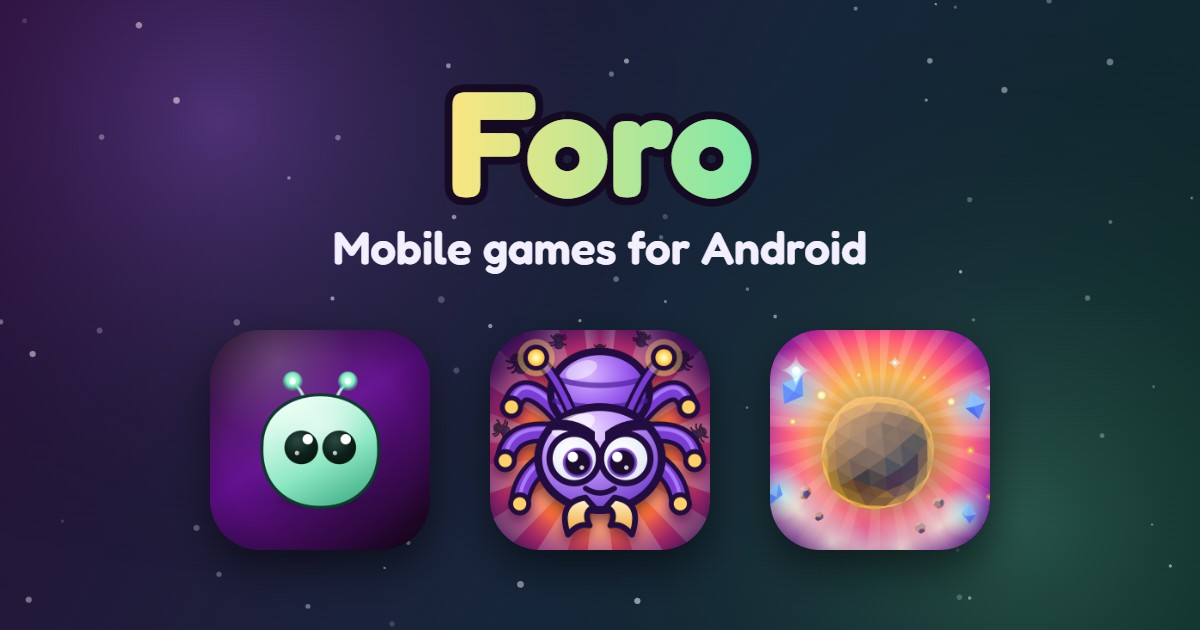
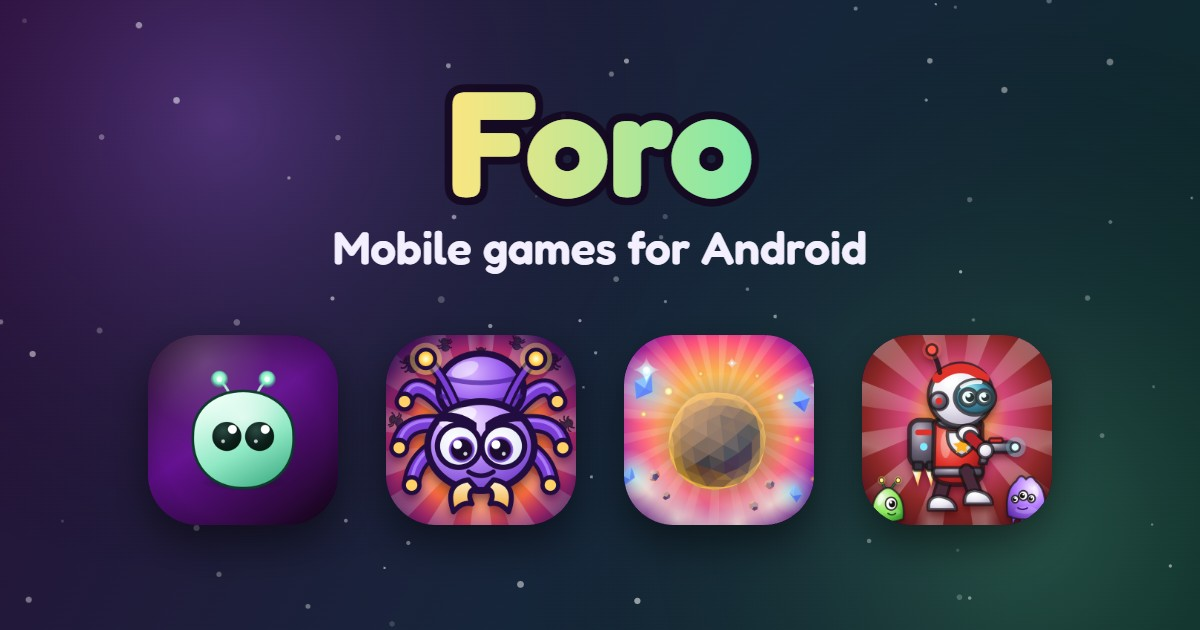
Add files via upload

Changed region(s): [[0.1233, 0.5127, 0.8942, 0.8746]]

diff --git a/index.html b/index.html
@@ -4,7 +4,7 @@
   <meta charset="utf-8">
   <meta name="viewport" content="width=device-width, initial-scale=1">
   <title>Foro - Mobile games for Android</title>
-  <meta name="description" content="Colourful free mobile games for Android: Tapvolution (idle evolution clicker), Bugvalanche (tower defense) and Tiltstone (tilt-to-roll arcade). Ads are always optional.">
+  <meta name="description" content="Colourful free mobile games for Android: Tapvolution (idle evolution clicker), Bugvalanche (tower defense) and Tiltstone (tilt-to-roll arcade) and Mobmelt (survivor action). Ads are always optional.">
   <link rel="canonical" href="https://foro1998.github.io/">
   <meta name="theme-color" content="#120a26">
   <link rel="icon" type="image/svg+xml" href="/favicon.svg">
@@ -12,7 +12,7 @@
   <meta property="og:type" content="website">
   <meta property="og:site_name" content="Foro">
   <meta property="og:title" content="Foro - Mobile games for Android">
-  <meta property="og:description" content="Tapvolution, Bugvalanche and Tiltstone: colourful free Android games. Ads are always optional.">
+  <meta property="og:description" content="Tapvolution, Bugvalanche, Tiltstone and Mobmelt: colourful free Android games. Ads are always optional.">
   <meta property="og:url" content="https://foro1998.github.io/">
   <meta property="og:image" content="https://foro1998.github.io/og-image.jpg">
   <meta property="og:image:width" content="1200">
@@ -83,13 +83,6 @@
     nav { display: flex; align-items: center; gap: 6px; }
     nav a.link { color: var(--text); text-decoration: none; padding: 8px 14px; border-radius: 999px; font-weight: 600; font-size: 0.95rem; }
     nav a.link:hover { background: rgba(255, 255, 255, 0.08); }
-    .lang { display: inline-flex; border: 1px solid var(--stroke); border-radius: 999px; padding: 3px; margin-left: 8px; background: rgba(255, 255, 255, 0.04); }
-    .lang button {
-      border: 0; background: transparent; color: var(--muted); font: 700 0.8rem var(--font-body);
-      padding: 6px 11px; border-radius: 999px; cursor: pointer; letter-spacing: 0.04em;
-    }
-    .lang button[aria-pressed="true"] { background: linear-gradient(135deg, var(--gold), var(--gold-dark)); color: #3a2204; }
-
     /* ---------- hero ---------- */
     .hero { padding: clamp(48px, 9vw, 104px) 0 clamp(28px, 5vw, 56px); text-align: center; }
     .hero h1 {
@@ -110,7 +103,8 @@
     }
     .hero__icons a:nth-child(1) img { transform: rotate(-6deg); }
     .hero__icons a:nth-child(2) img { transform: translateY(-8px); }
-    .hero__icons a:nth-child(3) img { transform: rotate(6deg); }
+    .hero__icons a:nth-child(3) img { transform: rotate(5deg); }
+    .hero__icons a:nth-child(4) img { transform: translateY(-8px) rotate(-4deg); }
     .hero__icons a:hover img { transform: translateY(-8px) scale(1.06); }
     .cta { display: flex; justify-content: center; flex-wrap: wrap; gap: 12px; margin-top: 30px; }
 
@@ -136,7 +130,8 @@
       margin: 0 0 8px; text-align: center; font: 700 clamp(1.8rem, 4.4vw, 2.6rem)/1.15 var(--font-display);
     }
     .section-sub { text-align: center; color: var(--muted); margin: 0 auto 36px; max-width: 36rem; }
-    .games { display: grid; grid-template-columns: repeat(auto-fit, minmax(300px, 1fr)); gap: 26px; align-items: stretch; }
+    .games { display: grid; grid-template-columns: repeat(auto-fit, minmax(420px, 1fr)); gap: 26px; align-items: stretch; }
+    @media (max-width: 480px) { .games { grid-template-columns: 1fr; } }
     .game {
       position: relative; display: flex; flex-direction: column; overflow: hidden;
       background: var(--card); border: 1px solid var(--stroke); border-radius: var(--radius);
@@ -209,12 +204,8 @@
         <span class="brand__name">Foro</span>
       </a>
       <nav aria-label="Main">
-        <a class="link" href="#games" data-i18n="navGames">Games</a>
-        <a class="link" href="#contact" data-i18n="navContact">Contact</a>
-        <div class="lang" role="group" aria-label="Language">
-          <button type="button" data-lang="en" aria-pressed="true">EN</button>
-          <button type="button" data-lang="cs" aria-pressed="false">CS</button>
-        </div>
+        <a class="link" href="#games">Games</a>
+        <a class="link" href="#contact">Contact</a>
       </nav>
     </div>
   </header>
@@ -222,24 +213,25 @@
   <main>
     <section class="hero">
       <div class="wrap">
-        <h1 data-i18n="heroTitle">Colourful games for your phone</h1>
-        <p data-i18n="heroText">Free Android games: idle clicking, tower defense and tilt-to-roll arcade. Ads are always optional, only when you choose to watch one for a reward.</p>
+        <h1>Colourful games for your phone</h1>
+        <p>Free Android games: idle clicking, tower defense, tilt-to-roll arcade and survivor action. Ads are always optional, only when you choose to watch one for a reward.</p>
         <div class="hero__icons" aria-hidden="true">
           <a tabindex="-1" href="#tapvolution"><img src="/tapvolution-icon.webp" alt="" width="92" height="92"></a>
           <a tabindex="-1" href="#bugvalanche"><img src="/bugvalanche-icon.webp" alt="" width="92" height="92"></a>
           <a tabindex="-1" href="#tiltstone"><img src="/tiltstone-icon.webp" alt="" width="92" height="92"></a>
+          <a tabindex="-1" href="#mobmelt"><img src="/mobmelt-icon.webp" alt="" width="92" height="92"></a>
         </div>
         <div class="cta">
-          <a class="btn btn--gold" href="#games" data-i18n="ctaGames">See the games</a>
-          <a class="btn btn--ghost" href="https://play.google.com/store/apps/details?id=com.tapvolution.game" data-i18n="ctaLatest">Play Tapvolution now</a>
+          <a class="btn btn--gold" href="#games">See the games</a>
+          <a class="btn btn--ghost" href="https://play.google.com/store/apps/details?id=com.tapvolution.game">Play Tapvolution now</a>
         </div>
       </div>
     </section>
 
     <section id="games">
       <div class="wrap">
-        <h2 class="section" data-i18n="gamesTitle">Games</h2>
-        <p class="section-sub" data-i18n="gamesSub">Three games, three very different ways to play.</p>
+        <h2 class="section">Games</h2>
+        <p class="section-sub">Four games, four very different ways to play.</p>
 
         <div class="games">
           <!--
@@ -256,23 +248,23 @@
             <div class="game__body">
               <div class="game__head">
                 <h3>Tapvolution</h3>
-                <span class="badge badge--live" data-i18n="badgeLive">Out now</span>
-                <span class="badge badge--soon" data-i18n="badgeSoon">Coming soon</span>
+                <span class="badge badge--live">Out now</span>
+                <span class="badge badge--soon">Coming soon</span>
               </div>
-              <ul class="tags"><li data-i18n="tagIdle">Idle clicker</li><li data-i18n="tagOffline">Plays offline</li><li data-i18n="tagTap">Evolution</li></ul>
-              <p class="desc" data-i18n="tapDesc">Tap a tiny cell and evolve it through 86 stages, all the way to a god. Buy generators that earn while you're away, then reset and grow stronger.</p>
+              <ul class="tags"><li>Idle clicker</li><li>Plays offline</li><li>Evolution</li></ul>
+              <p class="desc">Tap a tiny cell and evolve it through 86 stages, all the way to a god. Buy generators that earn while you're away, then reset and grow stronger.</p>
               <ul class="facts">
-                <li data-i18n="tapF1">86 evolution stages, each with its own creature</li>
-                <li data-i18n="tapF2">110 achievements and a branching prestige tree</li>
-                <li data-i18n="tapF3">Available in 5 languages</li>
+                <li>86 evolution stages, each with its own creature</li>
+                <li>110 achievements and a branching prestige tree</li>
+                <li>Available in 5 languages</li>
               </ul>
               <div class="game__actions">
                 <a class="btn btn--gold btn--play" href="https://play.google.com/store/apps/details?id=com.tapvolution.game">
                   <svg viewBox="0 0 24 24" aria-hidden="true"><path fill="currentColor" d="M5 3.2v17.6c0 .7.8 1.1 1.4.7l14-8.8c.6-.4.6-1.2 0-1.6L6.4 2.5C5.8 2.1 5 2.5 5 3.2z"/></svg>
-                  <span data-i18n="btnPlay">Get it on Google Play</span>
+                  <span>Get it on Google Play</span>
                 </a>
-                <span class="btn btn--soon" aria-disabled="true" data-i18n="btnSoon">Coming soon on Google Play</span>
-                <a class="btn btn--ghost" href="https://foro1998.github.io/tapvolution-privacy/" data-i18n="btnPrivacy">Privacy policy</a>
+                <span class="btn btn--soon" aria-disabled="true">Coming soon on Google Play</span>
+                <a class="btn btn--ghost" href="https://foro1998.github.io/tapvolution-privacy/">Privacy policy</a>
               </div>
             </div>
           </article>
@@ -286,23 +278,23 @@
             <div class="game__body">
               <div class="game__head">
                 <h3>Bugvalanche</h3>
-                <span class="badge badge--live" data-i18n="badgeLive">Out now</span>
-                <span class="badge badge--soon" data-i18n="badgeSoon">Coming soon</span>
+                <span class="badge badge--live">Out now</span>
+                <span class="badge badge--soon">Coming soon</span>
               </div>
-              <ul class="tags"><li data-i18n="tagTd">Tower defense</li><li data-i18n="tagStrategy">Strategy</li><li data-i18n="tagOffline">Plays offline</li></ul>
-              <p class="desc" data-i18n="bugDesc">Hold the wall against an avalanche of thousands of bugs. Place your weapons anywhere, aim them yourself, call in the mothership and upgrade after every fight.</p>
+              <ul class="tags"><li>Tower defense</li><li>Strategy</li><li>Plays offline</li></ul>
+              <p class="desc">Hold the wall against an avalanche of thousands of bugs. Place your weapons anywhere, aim them yourself, call in the mothership and upgrade after every fight.</p>
               <ul class="facts">
-                <li data-i18n="bugF1">50 levels across 9 regions</li>
-                <li data-i18n="bugF2">8 weapons and 120+ upgrades</li>
-                <li data-i18n="bugF3">Endless Swarm, daily challenge, bosses</li>
+                <li>50 levels across 9 regions</li>
+                <li>8 weapons and 120+ upgrades</li>
+                <li>Endless Swarm, daily challenge, bosses</li>
               </ul>
               <div class="game__actions">
                 <a class="btn btn--gold btn--play" href="https://play.google.com/store/apps/details?id=com.bugvalanche.game">
                   <svg viewBox="0 0 24 24" aria-hidden="true"><path fill="currentColor" d="M5 3.2v17.6c0 .7.8 1.1 1.4.7l14-8.8c.6-.4.6-1.2 0-1.6L6.4 2.5C5.8 2.1 5 2.5 5 3.2z"/></svg>
-                  <span data-i18n="btnPlay">Get it on Google Play</span>
+                  <span>Get it on Google Play</span>
                 </a>
-                <span class="btn btn--soon" aria-disabled="true" data-i18n="btnSoon">Coming soon on Google Play</span>
-                <a class="btn btn--ghost" href="https://foro1998.github.io/bugvalanche-privacy/" data-i18n="btnPrivacy">Privacy policy</a>
+                <span class="btn btn--soon" aria-disabled="true">Coming soon on Google Play</span>
+                <a class="btn btn--ghost" href="https://foro1998.github.io/bugvalanche-privacy/">Privacy policy</a>
               </div>
             </div>
           </article>
@@ -316,23 +308,52 @@
             <div class="game__body">
               <div class="game__head">
                 <h3>Tiltstone</h3>
-                <span class="badge badge--live" data-i18n="badgeLive">Out now</span>
-                <span class="badge badge--soon" data-i18n="badgeSoon">Coming soon</span>
+                <span class="badge badge--live">Out now</span>
+                <span class="badge badge--soon">Coming soon</span>
               </div>
-              <ul class="tags"><li data-i18n="tagArcade">Arcade</li><li data-i18n="tagTilt">Tilt controls</li><li data-i18n="tagOffline">Plays offline</li></ul>
-              <p class="desc" data-i18n="tiltDesc">Tilt your phone and roll a boulder along narrow paths high above the clouds. One careless move and you're falling.</p>
+              <ul class="tags"><li>Arcade</li><li>Tilt controls</li><li>Plays offline</li></ul>
+              <p class="desc">Tilt your phone and roll a boulder along narrow paths high above the clouds. One careless move and you're falling.</p>
               <ul class="facts">
-                <li data-i18n="tiltF1">60 levels in 12 worlds</li>
-                <li data-i18n="tiltF2">Endless path and a new daily path</li>
-                <li data-i18n="tiltF3">14 stones to collect, each rolls a little differently</li>
+                <li>60 levels in 12 worlds</li>
+                <li>Endless path and a new daily path</li>
+                <li>14 stones to collect, each rolls a little differently</li>
               </ul>
               <div class="game__actions">
                 <a class="btn btn--gold btn--play" href="https://play.google.com/store/apps/details?id=com.tiltstone.game">
                   <svg viewBox="0 0 24 24" aria-hidden="true"><path fill="currentColor" d="M5 3.2v17.6c0 .7.8 1.1 1.4.7l14-8.8c.6-.4.6-1.2 0-1.6L6.4 2.5C5.8 2.1 5 2.5 5 3.2z"/></svg>
-                  <span data-i18n="btnPlay">Get it on Google Play</span>
+                  <span>Get it on Google Play</span>
                 </a>
-                <span class="btn btn--soon" aria-disabled="true" data-i18n="btnSoon">Coming soon on Google Play</span>
-                <a class="btn btn--ghost" href="https://foro1998.github.io/tiltstone-privacy/" data-i18n="btnPrivacy">Privacy policy</a>
+                <span class="btn btn--soon" aria-disabled="true">Coming soon on Google Play</span>
+                <a class="btn btn--ghost" href="https://foro1998.github.io/tiltstone-privacy/">Privacy policy</a>
+              </div>
+            </div>
+          </article>
+
+          <!-- Mobmelt -->
+          <article class="game" id="mobmelt" data-status="soon">
+            <div class="game__art">
+              <img class="game__img" src="/mobmelt-card.webp" alt="Mobmelt: a space colony on a red planet under a ringed giant planet" width="1024" height="500" loading="lazy">
+              <img class="game__icon" src="/mobmelt-icon.webp" alt="Mobmelt icon" width="78" height="78">
+            </div>
+            <div class="game__body">
+              <div class="game__head">
+                <h3>Mobmelt</h3>
+                <span class="badge badge--live">Out now</span>
+                <span class="badge badge--soon">Coming soon</span>
+              </div>
+              <ul class="tags"><li>Survivor</li><li>Action</li><li>Portrait &amp; landscape</li></ul>
+              <p class="desc">Survive an endless goo invasion. Enemies swarm from every side while you level up, evolve your weapons, rescue survivors and take on giant bosses.</p>
+              <ul class="facts">
+                <li>4 heroes, each with a signature weapon</li>
+                <li>4 worlds, a different one every run</li>
+                <li>Giant bosses and weapon evolutions</li>
+              </ul>
+              <div class="game__actions">
+                <a class="btn btn--gold btn--play" href="https://play.google.com/store/apps/details?id=com.mobmelt.game">
+                  <svg viewBox="0 0 24 24" aria-hidden="true"><path fill="currentColor" d="M5 3.2v17.6c0 .7.8 1.1 1.4.7l14-8.8c.6-.4.6-1.2 0-1.6L6.4 2.5C5.8 2.1 5 2.5 5 3.2z"/></svg>
+                  <span>Get it on Google Play</span>
+                </a>
+                <span class="btn btn--soon" aria-disabled="true">Coming soon on Google Play</span>
               </div>
             </div>
           </article>
@@ -342,26 +363,26 @@
 
     <section id="why">
       <div class="wrap">
-        <h2 class="section" data-i18n="whyTitle">What to expect</h2>
-        <p class="section-sub" data-i18n="whySub">The same promises in every game.</p>
+        <h2 class="section">What to expect</h2>
+        <p class="section-sub">The same promises in every game.</p>
         <div class="values">
-          <div class="value"><div class="value__icon" aria-hidden="true">🆓</div><h3 data-i18n="v1t">Free to play</h3><p data-i18n="v1p">Download and play. No purchases, no energy timers.</p></div>
-          <div class="value"><div class="value__icon" aria-hidden="true">🎬</div><h3 data-i18n="v2t">Ads only if you choose</h3><p data-i18n="v2p">The only ads are optional reward videos. Nothing pops up on its own.</p></div>
-          <div class="value"><div class="value__icon" aria-hidden="true">📴</div><h3 data-i18n="v3t">Plays offline</h3><p data-i18n="v3p">No account and no connection needed to play.</p></div>
-          <div class="value"><div class="value__icon" aria-hidden="true">🔒</div><h3 data-i18n="v4t">Your data stays yours</h3><p data-i18n="v4p">Progress is saved on your device. Every game has a plain-language privacy policy.</p></div>
+          <div class="value"><div class="value__icon" aria-hidden="true">🆓</div><h3>Free to play</h3><p>Download and play. No purchases, no energy timers.</p></div>
+          <div class="value"><div class="value__icon" aria-hidden="true">🎬</div><h3>Ads only if you choose</h3><p>The only ads are optional reward videos. Nothing pops up on its own.</p></div>
+          <div class="value"><div class="value__icon" aria-hidden="true">📴</div><h3>Plays offline</h3><p>No account and no connection needed to play.</p></div>
+          <div class="value"><div class="value__icon" aria-hidden="true">🔒</div><h3>Your data stays yours</h3><p>Progress is saved on your device. Every released game has a plain-language privacy policy.</p></div>
         </div>
       </div>
     </section>
 
     <section id="contact">
       <div class="wrap about">
-        <h2 class="section" data-i18n="contactTitle">Contact</h2>
-        <p data-i18n="contactText">Questions, bug reports or ideas? Get in touch:</p>
+        <h2 class="section">Contact</h2>
+        <p>Questions, bug reports or ideas? Get in touch:</p>
         <a class="btn btn--gold" href="mailto:tapvolution.game@gmail.com">tapvolution.game@gmail.com</a>
         <ul class="privacy-list" aria-label="Privacy policies">
-          <li><a href="https://foro1998.github.io/tapvolution-privacy/"><span data-i18n="privFor">Privacy policy:</span> Tapvolution</a></li>
-          <li><a href="https://foro1998.github.io/bugvalanche-privacy/"><span data-i18n="privFor">Privacy policy:</span> Bugvalanche</a></li>
-          <li><a href="https://foro1998.github.io/tiltstone-privacy/"><span data-i18n="privFor">Privacy policy:</span> Tiltstone</a></li>
+          <li><a href="https://foro1998.github.io/tapvolution-privacy/"><span>Privacy policy:</span> Tapvolution</a></li>
+          <li><a href="https://foro1998.github.io/bugvalanche-privacy/"><span>Privacy policy:</span> Bugvalanche</a></li>
+          <li><a href="https://foro1998.github.io/tiltstone-privacy/"><span>Privacy policy:</span> Tiltstone</a></li>
         </ul>
       </div>
     </section>
@@ -370,69 +391,9 @@
   <footer class="site">
     <div class="wrap">
       <p>&copy; 2026 Foro</p>
-      <p data-i18n="trademark">Google Play is a trademark of Google LLC.</p>
+      <p>Google Play is a trademark of Google LLC.</p>
     </div>
   </footer>
 
-  <script>
-    (function () {
-      var STR = {
-        cs: {
-          navGames: "Hry", navContact: "Kontakt",
-          heroTitle: "Barevné hry do telefonu",
-          heroText: "Hry pro Android zdarma: idle klikání, tower defense a arkáda ovládaná náklonem telefonu. Reklamy jsou vždy dobrovolné, jen když se sám rozhodneš podívat na jednu za odměnu.",
-          ctaGames: "Zobrazit hry", ctaLatest: "Zahrát si Tapvolution",
-          gamesTitle: "Hry", gamesSub: "Tři hry, tři úplně jiné způsoby hraní.",
-          badgeLive: "Už venku", badgeSoon: "Brzy",
-          tagIdle: "Idle klikačka", tagOffline: "Hraje se offline", tagTap: "Evoluce", tagTd: "Tower defense", tagStrategy: "Strategie", tagArcade: "Arkáda", tagTilt: "Ovládání náklonem",
-          tapDesc: "Klikej na malou buňku a vyvíjej ji přes 86 fází až v boha. Kupuj generátory, které vydělávají, i když nehraješ, a pak začni znovu silnější.",
-          tapF1: "86 evolučních fází, každá s vlastním tvorem", tapF2: "110 úspěchů a větvený prestižní strom", tapF3: "K dispozici v 5 jazycích",
-          bugDesc: "Udrž hradbu proti lavině tisíců brouků. Zbraně stavíš kamkoli, míříš je sám, přivoláš mateřskou loď a po každém boji vylepšuješ.",
-          bugF1: "50 levelů v 9 oblastech", bugF2: "8 zbraní a víc než 120 vylepšení", bugF3: "Nekonečný roj, denní výzva, bossové",
-          tiltDesc: "Nakláněj telefon a kutálej balvan po úzkých stezkách vysoko nad mraky. Jeden neopatrný pohyb a padáš.",
-          tiltF1: "60 levelů ve 12 světech", tiltF2: "Nekonečná stezka a každý den nová denní stezka", tiltF3: "14 kamenů ke sbírání, každý jede trochu jinak",
-          btnPlay: "Stáhnout na Google Play", btnSoon: "Brzy na Google Play", btnPrivacy: "Zásady ochrany soukromí",
-          whyTitle: "Co můžeš čekat", whySub: "Stejné sliby v každé hře.",
-          v1t: "Zdarma", v1p: "Stáhni a hraj. Žádné nákupy ani energetické časovače.",
-          v2t: "Reklamy jen když chceš", v2p: "Jediné reklamy jsou dobrovolná videa za odměnu. Nic samo nevyskakuje.",
-          v3t: "Hraje se offline", v3p: "K hraní nepotřebuješ účet ani připojení.",
-          v4t: "Tvoje data zůstávají tvoje", v4p: "Postup se ukládá v tvém zařízení. Každá hra má srozumitelné zásady ochrany soukromí.",
-          contactTitle: "Kontakt", contactText: "Otázky, hlášení chyb nebo nápady? Ozvi se:",
-          privFor: "Zásady ochrany soukromí:", trademark: "Google Play je ochranná známka společnosti Google LLC."
-        }
-      };
-      var DEFAULTS = {};
-      var nodes = document.querySelectorAll("[data-i18n]");
-      nodes.forEach(function (n) { DEFAULTS[n.getAttribute("data-i18n") + "|" + indexOf(n)] = n.textContent; });
-      function indexOf(n) { return Array.prototype.indexOf.call(nodes, n); }
-
-      function apply(lang) {
-        document.documentElement.lang = lang;
-        nodes.forEach(function (n) {
-          var key = n.getAttribute("data-i18n");
-          var text = lang === "cs" && STR.cs[key] ? STR.cs[key] : DEFAULTS[key + "|" + indexOf(n)];
-          n.textContent = text;
-        });
-        document.querySelectorAll(".lang button").forEach(function (b) {
-          b.setAttribute("aria-pressed", String(b.getAttribute("data-lang") === lang));
-        });
-        document.title = lang === "cs" ? "Foro - Mobilní hry pro Android" : "Foro - Mobile games for Android";
-      }
-
-      var saved = null;
-      try { saved = localStorage.getItem("foro_lang"); } catch (e) {}
-      var q = (location.search.match(/[?&]lang=(en|cs)/) || [])[1];
-      var initial = q || saved || ((navigator.language || "").toLowerCase().indexOf("cs") === 0 ? "cs" : "en");
-      if (initial === "cs") apply("cs");
-
-      document.querySelectorAll(".lang button").forEach(function (b) {
-        b.addEventListener("click", function () {
-          var l = b.getAttribute("data-lang");
-          apply(l);
-          try { localStorage.setItem("foro_lang", l); } catch (e) {}
-        });
-      });
-    })();
-  </script>
 </body>
 </html>
